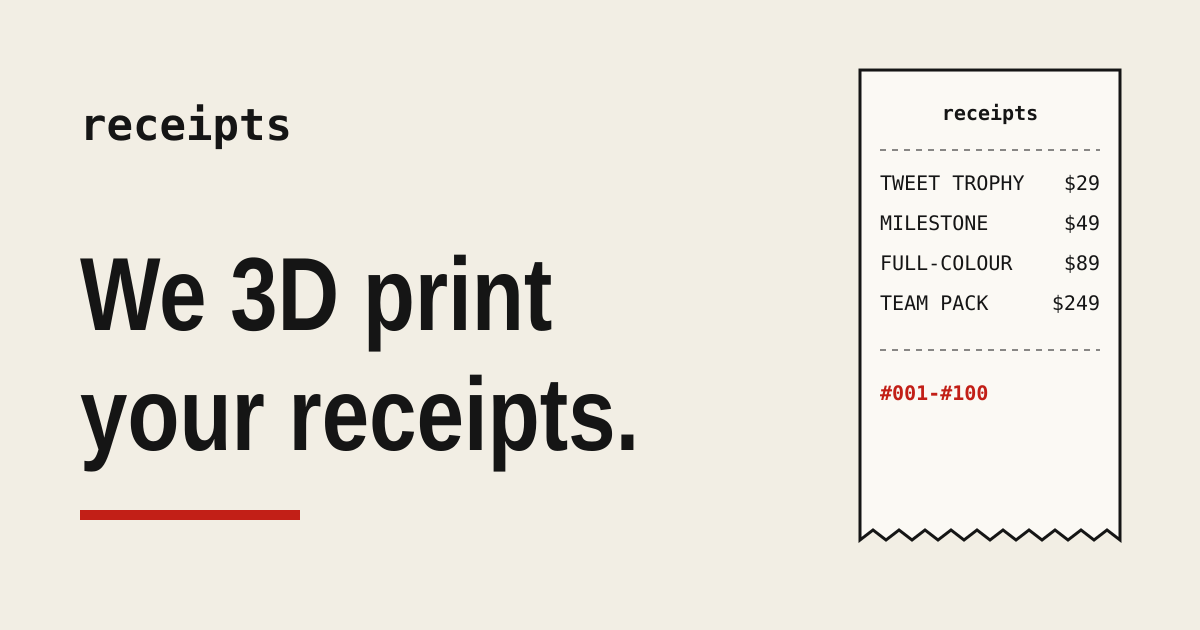
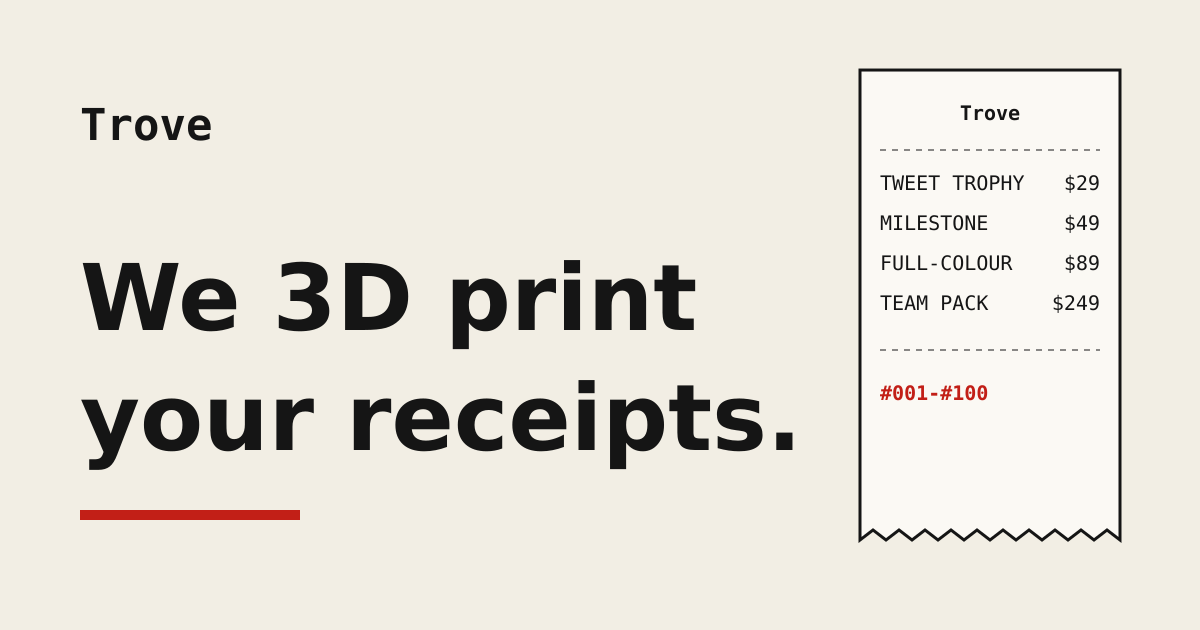
Rebrand site copy from Receipts to Trove (trovefactory.shop)
Header/footer wordmark, page titles, og/twitter meta (site_name, absolute
og:image, canonical + og:url on https://trovefactory.shop), live/claim/order
copy, legal pages, claim og title, og.svg + regenerated og.png.
Text only: no identifiers, routes, env vars, KV keys or plan ids changed.

diff --git a/site/api/og-claim.js b/site/api/og-claim.js
@@ -55,7 +55,7 @@ export function slugFrom(request) {
 export function personalise(html, claim, origin) {
   let out = html;
   if (claim.handle) {
-    const title = `receipts · @${String(claim.handle).replace(/^@/, "")}, this one's yours`;
+    const title = `Trove · @${String(claim.handle).replace(/^@/, "")}, this one's yours`;
     out = setMeta(out, "property", "og:title", title);
     out = setMeta(out, "name", "twitter:title", title);
   }
